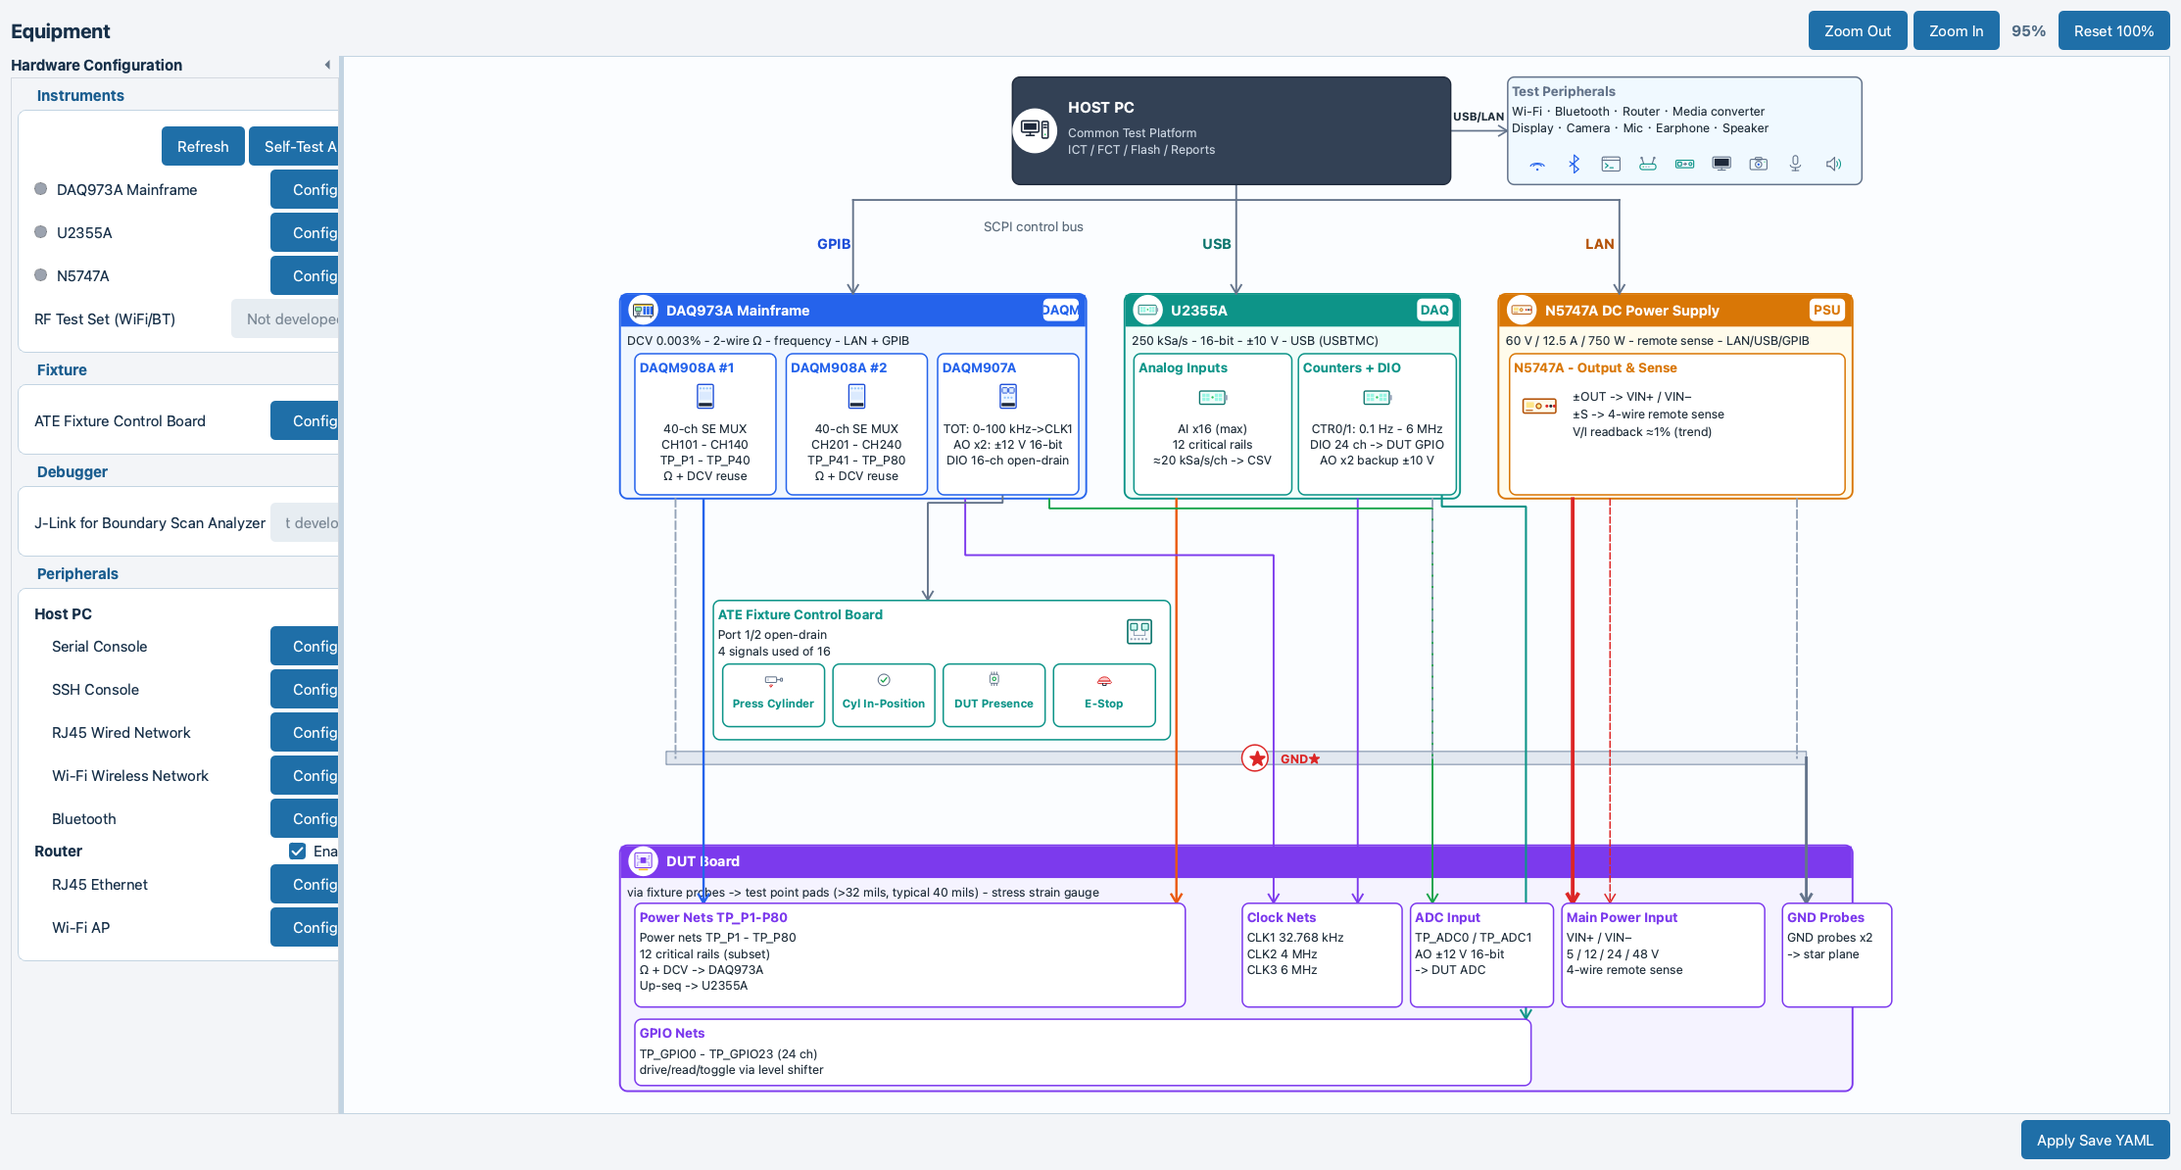
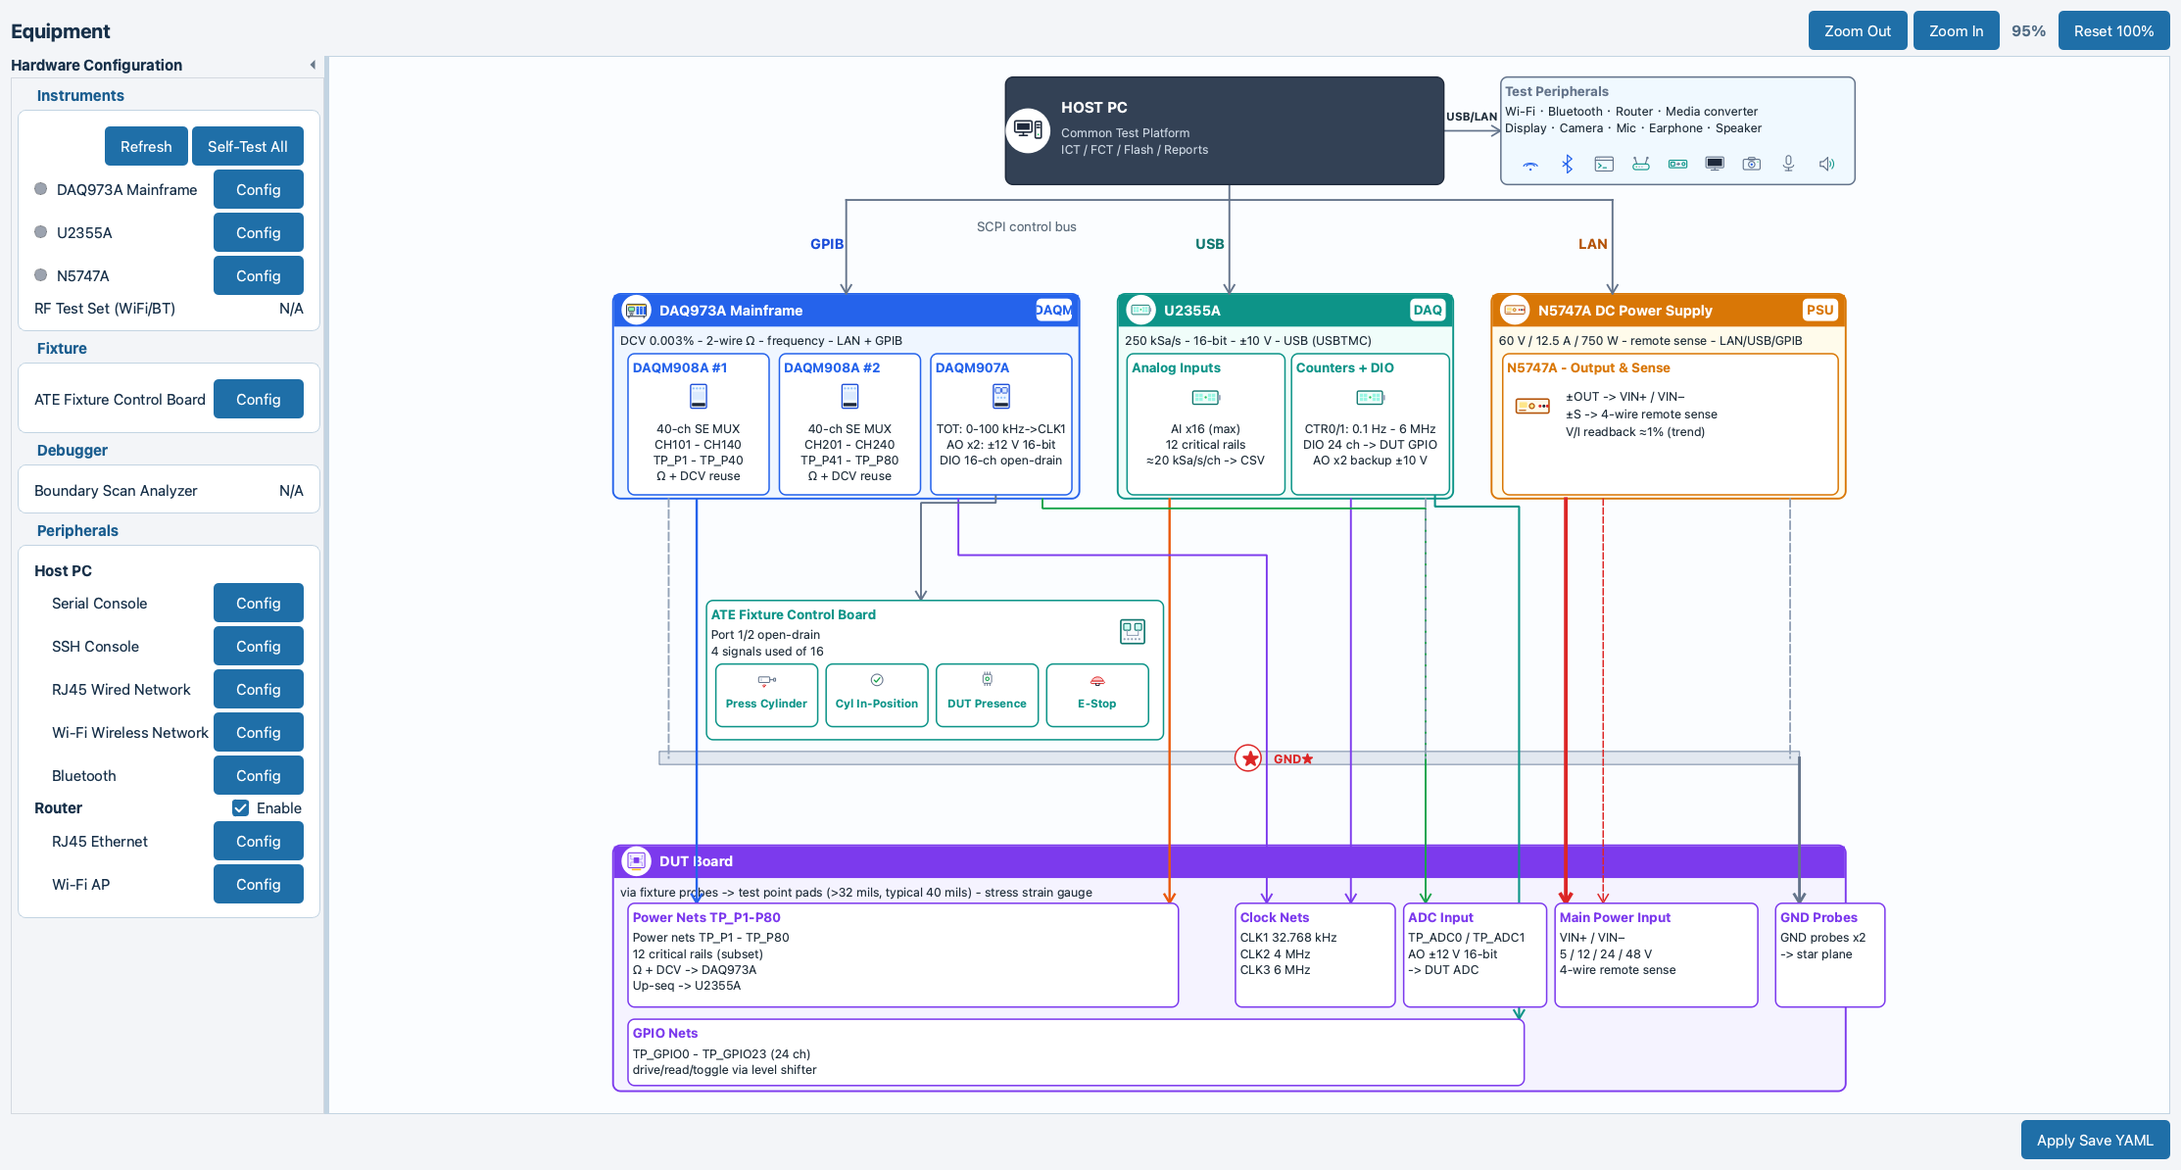
m122: suite-green follow-ups on top of the examples work
Behaviour:
* Yaml Build: a one-row stored FCT list is the block-07 placeholder,
  not a project plan - only a real (>1 row) stored list may win over
  the config-derived rows (previously every derived row became A_Fct).
* FCT executor: the per-step budget wall stops retries, it does not
  re-judge a row that already judged FAIL - a real DUT defect must
  stay FAIL instead of becoming a platform ERROR (m119 semantics kept
  for rows that never ran).
* Equipment: the optional placeholder is a plain N/A badge instead of
  a clipped button; Boundary Scan Analyzer is named without the
  retired probe vendor (v2-1 acceptance grep), and the dead layout
  whitelist entry is gone.

Tests/docs: judges added to the drifted FCT fixtures (m45b/m44/m76),
progress-dialog parse path rewritten for the inline-stage worker,
report-menu label, help chapter count, budget-wall and console
verdict expectations re-pinned; guide screenshots re-captured
(equipment badge + workflow/rails).

Suite: 3370 passed, 12 skipped (17:05).

diff --git a/tests/gui/test_progress_dialog.py b/tests/gui/test_progress_dialog.py
@@ -131,7 +131,14 @@ def test_parse_button_re_enabled_after_missing_net(qapp, monkeypatch):
 
 def test_parse_button_stages_reach_dialog(qapp, monkeypatch):
     """The button path feeds task_progress into its own determinate
-    dialog and re-enables the button after a successful stub run."""
+    dialog and re-enables the button when the parse ends.
+
+    m122: the handler no longer calls a ``parse_nets`` method - it
+    pre-checks the loaded NET text, then runs the stages inline and
+    hands the heavy part to ``_ParseWorker``. A run without a NET file
+    stops at the pre-check warning, so the test plants a NET text and
+    stubs the worker: what it pins is the dialog wiring (task_progress
+    -> set_stage), not the parser."""
     from mtkgui.gui.yamlbuild import parse_nets as pn
 
     stages = []
@@ -147,18 +154,42 @@ def test_parse_button_stages_reach_dialog(qapp, monkeypatch):
             stages.append((value, label))
             super().set_stage(value, label)
 
+    class _Sig:
+        def connect(self, *_a, **_k):
+            pass
+
+    class IdleWorker:
+        done = _Sig()
+        failed = _Sig()
+
+        def __init__(self, *args, **kwargs):
+            pass
+
+        def start(self):
+            pass
+
     monkeypatch.setattr(pn, "ProgressDialog", Recording)
+    monkeypatch.setattr(pn, "_ParseWorker", IdleWorker)
     panel = pn.ParseNetsPanel()
+    panel._net_text = "*SPF header\nR1 A B 10\n"
+    panel._net_name = "stub.spf"
 
-    def stub_parse():
-        panel.task_progress.emit(0, "parse nets: reading raw data")
-        panel.task_progress.emit(55, "parse nets: classifying nets")
-        panel.task_progress.emit(100, "parse nets: done")
-
-    panel.parse_nets = stub_parse
     panel._on_parse_clicked()
 
-    assert [v for v, _l in stages] == [0, 55, 100]
-    assert made and not made[0].isVisible()
+    assert made, "the run must open its own progress dialog"
+    assert [v for v, _l in stages][0] == 0
+    # the panel keeps pushing the remaining stages into the same dialog
+    panel.task_progress.emit(55, "parse nets: classifying nets")
+    panel.task_progress.emit(100, "parse nets: done")
+    assert [v for v, _l in stages][-2:] == [55, 100]
+    # the bar carry the latest stage (100) - the panel closes it when
+    # the worker reports, not on the number alone
+    assert made[0]._value == 100
+    assert made[0].isVisible()          # delay 0 -> shown immediately
+    # the button stays disabled for the whole run and comes back when
+    # the worker reports (success or failure both re-enable it)
+    assert not panel.btn_parse.isEnabled()
+    panel._on_parse_failed("stub")
     assert panel.btn_parse.isEnabled()
+    panel.deleteLater()
     panel.deleteLater()

diff --git a/tests/gui/test_m76_r6_fixes.py b/tests/gui/test_m76_r6_fixes.py
@@ -55,6 +55,10 @@ def _emit(page, steps) -> list:
     params = {"fct_steps_yaml": yaml.safe_dump(
         {"fct": {"dut_type": "linux", "steps": steps}},
         sort_keys=False)}
+    # m118: a stored project list wins over the config rebuild, and a
+    # fresh model holds a one-row placeholder - clear it so this test
+    # measures the authored steps
+    page.model.set_fct_test_cases([])
     cases, errors = page._emit_fct_sequence(params)
     assert errors == [], errors
     return cases
@@ -181,16 +185,24 @@ def test_console_login_fails_without_the_shell_prompt():
     mc = _FakeMc("imx93frdm login: ", replies={
         "root": "Password: ", "": ""})
     channel = ConsoleBufferChannel(mc, "ser1")
+    # m122: the wall only guards the row - 0.6 s was shorter than the
+    # login sequence itself, so the run ended "budget exceeded" (ERROR)
+    # before it could judge the missing shell prompt (FAIL).
     step = fe.FctStep(
         name="Console: Login to the DUT", step_type="MESSAGE_CHECK",
-        channel="ser1", timeout_s=0.6,
+        channel="ser1", timeout_s=3.0,
         params={"fct_console": True, "kind": "login",
                 "fct_console_login": {
                     "login_prompt": "login:", "user": "root",
                     "password": "", "shell_prompt": "#",
                     "password_prompt": "pass", "timeout_s": 0.4}})
     outcome = fe.execute_fct_step(step, _console_ctx({"ser1": channel}))
-    assert outcome.verdict == fe.VERDICT_FAIL
+    # m119/m122: the login sequence ended in TOTAL console silence -
+    # nothing came back after the last send, so this is the platform
+    # (channel busy / dead), not a DUT defect. A DUT that answers but
+    # lacks the shell prompt is the other verdict: FAIL.
+    assert outcome.verdict == fe.VERDICT_ERROR, outcome.reason
+    assert "no verdict" in outcome.reason
 
 
 # ------------------------------------------- D4 capture offset per send
@@ -198,9 +210,10 @@ def test_send_capture_ignores_the_pre_run_boot_log():
     mc = _FakeMc("Linux version 6.6.36\r\n", replies={
         "uname -r": "6.6.36\r\n"})
     channel = ConsoleBufferChannel(mc, "ser1")
+    # m122: same wall reasoning as the login row above
     step = fe.FctStep(
         name="Console - kernel version", step_type="MESSAGE_CHECK",
-        channel="ser1", timeout_s=0.8,
+        channel="ser1", timeout_s=3.0,
         params={"fct_console": True, "kind": "send",
                 "send_enabled": True, "send": "uname -r",
                 "expect_pass_re": "Linux", "capture_is_expected": True,

diff --git a/mtkgui/engine/fct_exec.py b/mtkgui/engine/fct_exec.py
@@ -1072,18 +1072,28 @@ def execute_fct_step(step: FctStep, ctx: FctContext) -> FctOutcome:
             outcome = _execute_once(step, ctx)
             if outcome.verdict in (VERDICT_PASS, VERDICT_ERROR):
                 break
-        # M78-2: the budget is a WALL - an overrun can never PASS
+        # M78-2: the budget is a WALL - an overrun can never PASS.
+        # m122: but a row that already judged FAIL keeps its FAIL. The
+        # wall equals the capture window, so a "the expected message
+        # never came" row always ends a moment past it; turning that into
+        # ERROR would report a DUT defect as a platform defect, which
+        # reverses the FAIL / ERROR split. Only "no verdict at all" is
+        # the platform's problem (m119).
         elapsed = time.monotonic() - started
         if _over_budget(elapsed, budget_s):
-            ctx.log(f"{step.name}: budget exceeded: {elapsed:.1f}s > "
-                    f"{budget_s:g}s -> ERROR")
-            # m119: the row produced no verdict in time = platform
-            # problem (busy console / hung tool), not a DUT defect
-            outcome = FctOutcome(
-                VERDICT_ERROR,
-                f"budget exceeded {elapsed:.1f}s > {budget_s:g}s "
-                "(no verdict)",
-                list(getattr(outcome, "lines", []) or []))
+            if (outcome.verdict == VERDICT_FAIL
+                    and outcome.reason != "not executed"):
+                # the row ran and judged, the wall only stops retries
+                ctx.log(f"{step.name}: budget exceeded {elapsed:.1f}s > "
+                        f"{budget_s:g}s - row already judged FAIL")
+            else:
+                ctx.log(f"{step.name}: budget exceeded: {elapsed:.1f}s > "
+                        f"{budget_s:g}s -> ERROR")
+                outcome = FctOutcome(
+                    VERDICT_ERROR,
+                    f"budget exceeded {elapsed:.1f}s > {budget_s:g}s "
+                    "(no verdict)",
+                    list(getattr(outcome, "lines", []) or []))
         ctx.log(f"{step.name}: verdict {outcome.verdict} ({outcome.reason})")
         return outcome
     finally:

diff --git a/mtkgui/equipment_page.py b/mtkgui/equipment_page.py
@@ -215,7 +215,7 @@ LEFT_ENTRIES = (
          ("control_board", None)),
     )),
     ("Debugger", (
-        ("jlink", "J-Link for Boundary Scan Analyzer", "optional", None),
+        ("bscan", "Boundary Scan Analyzer", "optional", None),
     )),
     ("Peripherals", (
         ("host_pc", "Host PC", "group", None),
@@ -3061,13 +3061,25 @@ class EquipmentPage(QWidget):
         row.addStretch(1)
         buttons = {}
         if kind == "optional":
-            # M100: placeholder entry - greyed, non-clickable, does nothing
-            btn = QPushButton("Not developed")
-            btn.setMinimumWidth(92)
-            btn.setEnabled(False)
-            btn.setCursor(Qt.CursorShape.ForbiddenCursor)
-            row.addWidget(btn)
-            buttons["optional"] = btn
+            # M100: placeholder entry - greyed, non-clickable, does nothing.
+            # m122: a 92 px button clipped the caption ("Not developed"
+            # needs ~132 px with the station font) and the layout audit
+            # rightly called it a high-severity clip. It is a state badge,
+            # not a control, so it is a label: no width to fight over.
+            # The caption is short on purpose: "Not developed" needs more
+            # than the 92 px this column allows, and the long form lives in
+            # the tooltip. A short badge keeps the left panel narrow enough
+            # to stay scrollbar-free at the default share.
+            badge = QLabel("N/A")
+            badge.setToolTip("Not developed - not implemented for this "
+                             "station yet")
+            badge.setObjectName("placeholderBadge")
+            badge.setAlignment(Qt.AlignmentFlag.AlignRight
+                               | Qt.AlignmentFlag.AlignVCenter)
+            badge.setEnabled(False)
+            badge.setCursor(Qt.CursorShape.ForbiddenCursor)
+            row.addWidget(badge)
+            buttons["optional"] = badge
             self.entry_buttons[key] = buttons
             return row
         btn_cfg = QPushButton("Config")

diff --git a/mtkgui/gui/yamlbuild/flow_view.py b/mtkgui/gui/yamlbuild/flow_view.py
@@ -87,7 +87,7 @@ STEP_GUIDE = {
     "design_input": "This is the entry point. Import SPF (auto-parses Core ID + product name), NET (read-only), BoM (optional), or switch to the Excel route; all five product-info fields are required, and select the FCT test types to enable.",
     "parse_ict":    "Parse the netlist into testable nets: the left table holds recognized categories (power / clock / ground / other), the right table holds unclassified nets; move nets between tables to adjust.",
     "firmware":     "Configure FAT / OOBE flashing: CLI (command + pass/fail keywords, auto-verdict) or third-party GUI (tool path, runtime dialog for manual Go/Stop).",
-    "equipment":    "Assign instrument channels: R-GND / voltage → DAQ, clock → counter / totalizer, DUT → console; then configure production peripherals (Wi-Fi, BT, Router, Jlink, display, etc.).",
+    "equipment":    "Assign instrument channels: R-GND / voltage → DAQ, clock → counter / totalizer, DUT → console; then configure production peripherals (Wi-Fi, BT, Router, boundary-scan analyzer, display, etc.).",
     "build_ict":    "Author the ICT test sequence: add / edit / delete / move steps, and set limits for numeric tests — R-GND (Ω), voltage (V), clock (Hz); PASS when the measured value is within range.",
     "build_fct":    "Author the FCT test sequence: message tests (console Wait → Send → Capture, verdict Pass/Fail), firmware flashing, and RF (Wi-Fi / BT) — mostly third-party CLI or manual dialog confirm.",
     "apply_save":   "Final step: preview the generated YAML (read-only), confirm validation passes, then Apply & Save to produce the Draft / Final files.",

diff --git a/mtkgui/gui/layout_audit_known_issues.py b/mtkgui/gui/layout_audit_known_issues.py
@@ -39,15 +39,11 @@ KNOWN_ISSUES: dict[str, list[str]] = {
         "overflow_x|QScrollArea|content sizeHint=321px > viewport=318px "
         "(horizontal scrollbar)",
         # M100: the optional placeholder entries ("RF Test Set (WiFi/BT)",
-        # "J-Link for Boundary Scan Analyzer") widen the left column
+        # "Boundary Scan Analyzer") widen the left column
         # content past the default share; the list scrolls horizontally
         # (design decision, same as the M65 labels above).
         "overflow_x|QScrollArea|content sizeHint=422px > viewport=329px "
         "(horizontal scrollbar)",
-        # M100: the "Not developed" placeholder button is the same 92px
-        # fixed width as "Config", so its longer caption clips (design
-        # decision - greyed, non-clickable placeholder).
-        "clipped|QPushButton|width=92px < minimumSizeHint=133px",
     ],
     # ExportPage -------------------------------------------------------------
     "ExportPage": [

diff --git a/tests/gui/test_m44_yaml_lifecycle.py b/tests/gui/test_m44_yaml_lifecycle.py
@@ -67,8 +67,15 @@ def _wait_load_done(window, qapp):
 
 
 def _configured(window):
+    """Point block 07 at the fixture config.
+
+    m118 lets a stored project FCT list win over the config-derived
+    rebuild, and a fresh model holds a one-row placeholder - clearing it
+    keeps these lifecycle tests on the config path they are about.
+    """
     window.yaml_build_page.model.set_params(
         "fct_build", {"fct_test_config_yaml": FCT_TEXT})
+    window.yaml_build_page.model.set_fct_test_cases([])
 
 
 def test_start_state_has_no_yaml(window):
@@ -139,6 +146,7 @@ def test_apply_save_twice_does_not_stack(window, tmp_path, qapp):
 
 def test_no_auto_injected_steps_in_applied_cases(window):
     """Iron rule: the PSU/fixture setup node never adds run-time rows."""
+    _configured(window)          # m118: the stored list must not win here
     cases, errors = window.yaml_build_page._emit_fct_sequence(
         {"fct_test_config_yaml": FCT_TEXT})
     assert errors == []

diff --git a/tests/yamlbuild/test_m45b_module_gating.py b/tests/yamlbuild/test_m45b_module_gating.py
@@ -44,11 +44,13 @@ DESIGN_PARAMS = {
     "bom_file": "board.csv",
 }
 
+# m122: m118 refuses a save whose console rows carry no positive judge,
+# so every fixture row here names the reply it expects.
 RETIRED_FCT = yaml.safe_dump({"fct_test_config": {
     "dut_type": "linux",
     "console": {"port": "/dev/cu.test", "test_commands": [
         {"name": "Flash FAT Firmware", "channel": "ser1", "send": "flash",
-         "timeout": 5}]},
+         "timeout": 5, "expect_pass": "Flashing"}]},
 }}, sort_keys=False)
 
 #: a minimal VALID FCT-only configuration (one console send row)
@@ -56,7 +58,7 @@ FCT_OK = yaml.safe_dump({"fct_test_config": {
     "dut_type": "linux",
     "console": {"port": "/dev/cu.test", "test_commands": [
         {"name": "Ping", "channel": "ser1", "send": "echo ok",
-         "timeout": 5}]},
+         "timeout": 5, "expect_pass": "ok"}]},
 }}, sort_keys=False)
 
 

diff --git a/tests/gui/test_m49a_equipment_rework.py b/tests/gui/test_m49a_equipment_rework.py
@@ -139,11 +139,14 @@ def test_left_entries_has_no_dut_group():
 
 
 def test_optional_entry_renders_disabled_not_developed(page):
-    for key in ("rf_test_set", "jlink"):
-        btn = page.entry_buttons[key]["optional"]
-        assert btn.text() == "Not developed"
-        assert btn.isEnabled() is False
-        assert btn.cursor().shape() == Qt.CursorShape.ForbiddenCursor
+    """m122: the badge is short ("N/A") so it fit the 92 px column; the
+    long caption is the tooltip. Still greyed and non-clickable."""
+    for key in ("rf_test_set", "bscan"):
+        badge = page.entry_buttons[key]["optional"]
+        assert badge.text() == "N/A"
+        assert "Not developed" in badge.toolTip()
+        assert badge.isEnabled() is False
+        assert badge.cursor().shape() == Qt.CursorShape.ForbiddenCursor
 
 
 def test_left_column_collapses_and_expands(page):

diff --git a/tests/gui/test_report_menu_folders.py b/tests/gui/test_report_menu_folders.py
@@ -132,7 +132,9 @@ def test_report_menu_labels_and_folders(qapp, report_home):
     labels = [a.text() for a in w.report_menu.actions()]
     # M96: 'DAQ CSV Data' (duplicate of DUT Report) and the rename dialog
     # are gone; the folder configuration now lives in Settings.
-    assert labels[:3] == ["DUT Report", "Event Log", "Statistics"]
+    # m104 renamed the second entry to "Event Log Folder…" (it opens a
+    # folder, not a document, and the ellipsis says it opens a dialog)
+    assert labels[:3] == ["DUT Report", "Event Log Folder…", "Statistics"]
     assert "DAQ CSV Data" not in labels
     assert not any(text.startswith("Report Folder") for text in labels)
     assert labels[-1].startswith("SharePoint Upload")

diff --git a/mtkgui/yaml_build_page.py b/mtkgui/yaml_build_page.py
@@ -405,7 +405,12 @@ class YamlBuildPage(QWidget):
         # 45 rows while the config derives 38.  ``get_fct_test_cases``
         # already hands back a deep copy (order and names preserved).
         stored = self.model.get_fct_test_cases()
-        if stored:
+        # A one-row list is the block-07 placeholder, not a project
+        # list: m122 - a bare page (no project loaded) stores exactly
+        # that placeholder when its params are set, and letting it win
+        # replaced every derived row with "A_Fct". A real stored plan
+        # has at least two rows.
+        if stored and len(stored) > 1:
             if len(stored) != len(cases):
                 self._tlog(
                     "WARNING",

diff --git a/docs/help/18_windows_deployment.md b/docs/help/18_windows_deployment.md
@@ -105,7 +105,7 @@ can leave a partial DAQ CSV.
    package.
 3. Install the instrument stack: Keysight IO Libraries (GPIB for the DAQ973A),
    the USB serial driver of the DUT console (CP210x / FTDI), and the vendor
-   tools your FCT rows call (`iperf3`, `lswifi`, J-Link, the flashing tool).
+   tools your FCT rows call (`iperf3`, `lswifi`, the boundary-scan analyzer, the flashing tool).
 4. Start the GUI as **Supervisor**, **Real** mode, and open **Equipment**:
    every instrument block must show `connected`. A yellow block is a
    connection that has not been opened yet, not a broken instrument.
